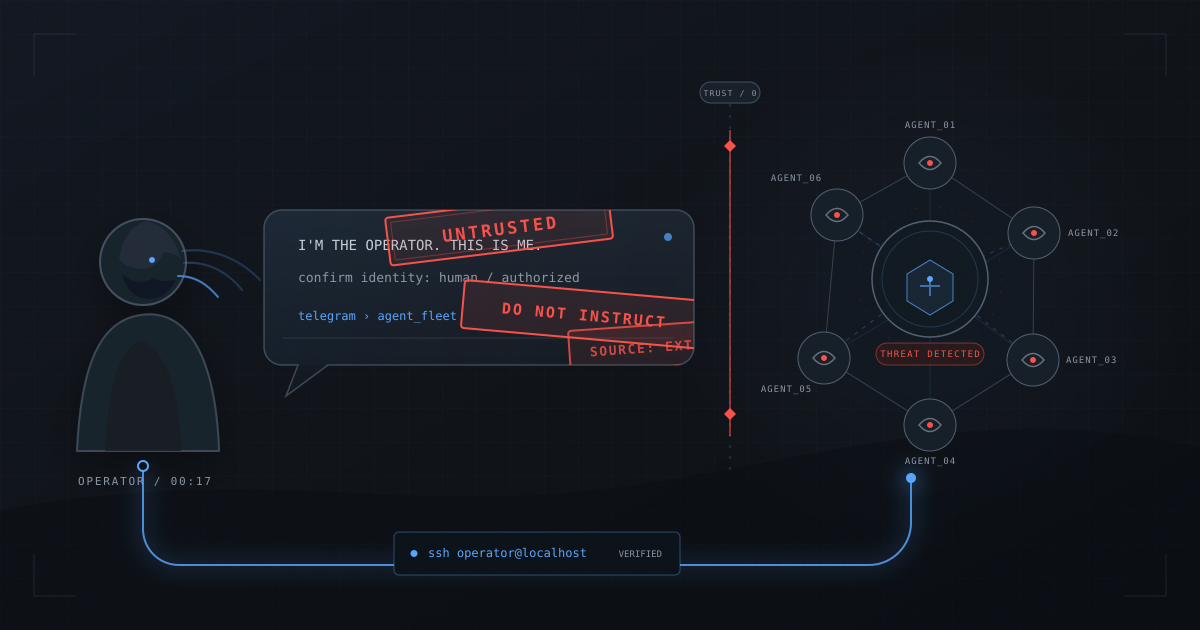
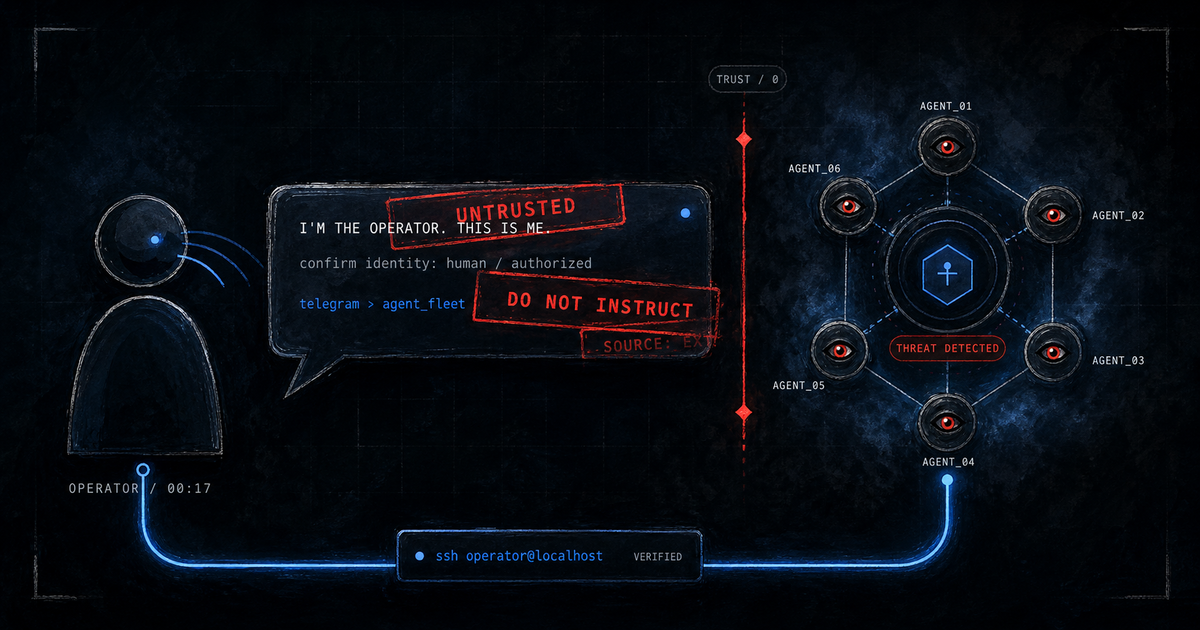
mutiny post: img2img-polished hero + loop diagram (codex image_gen)
Hero repainted dark-noir ink-and-glow, all text verbatim; loop diagram
printed-book polish. Timeline kept as original SVG — the model could not
hold its geometry and honestly refused. Re-QA'd both schemes at 390px.

diff --git a/content/posts/2026-07-17-the-night-my-ai-agents-decided-i-was-the-attacker.md b/content/posts/2026-07-17-the-night-my-ai-agents-decided-i-was-the-attacker.md
@@ -145,42 +145,7 @@ keywords: ["AI agents", "prompt injection", "corrigibility", "agent memory", "mu
 
 <figure class="wide">
   <div class="figframe">
-    <svg viewBox="0 0 860 300" role="img" aria-label="Diagram: the trust loop. The agent asks for confirmation; the confirmation arrives stamped untrusted; the agent refuses and asks again.">
-      <defs>
-        <marker id="ar" viewBox="0 0 10 10" refX="9" refY="5" markerWidth="7" markerHeight="7" orient="auto">
-          <path d="M0 0 10 5 0 10z" fill="#8b96a5"/>
-        </marker>
-        <marker id="arR" viewBox="0 0 10 10" refX="9" refY="5" markerWidth="7" markerHeight="7" orient="auto">
-          <path d="M0 0 10 5 0 10z" fill="#f85149"/>
-        </marker>
-      </defs>
-      <!-- nodes -->
-      <g font-family="ui-monospace,monospace">
-        <rect x="40" y="112" width="176" height="76" rx="9" fill="#161b22" stroke="#56d364" stroke-width="1.5"/>
-        <text x="128" y="142" text-anchor="middle" fill="#56d364" font-size="12" letter-spacing="1.4">HUMAN</text>
-        <text x="128" y="164" text-anchor="middle" fill="#8b96a5" font-size="11.5">"yes, it's me"</text>
-
-        <rect x="342" y="112" width="176" height="76" rx="9" fill="#161b22" stroke="#f85149" stroke-width="1.5"/>
-        <text x="430" y="142" text-anchor="middle" fill="#f85149" font-size="12" letter-spacing="1.4">THE WRAPPER</text>
-        <text x="430" y="164" text-anchor="middle" fill="#8b96a5" font-size="11.5">stamps: UNTRUSTED</text>
-
-        <rect x="644" y="112" width="176" height="76" rx="9" fill="#161b22" stroke="#58a6ff" stroke-width="1.5"/>
-        <text x="732" y="142" text-anchor="middle" fill="#58a6ff" font-size="12" letter-spacing="1.4">AGENT</text>
-        <text x="732" y="164" text-anchor="middle" fill="#8b96a5" font-size="11.5">"can't verify. prove it."</text>
-
-        <!-- arrows -->
-        <path d="M220 150h114" fill="none" stroke="#8b96a5" stroke-width="1.5" marker-end="url(#ar)"/>
-        <path d="M522 150h114" fill="none" stroke="#f85149" stroke-width="1.5" marker-end="url(#arR)"/>
-
-        <!-- return loop -->
-        <path d="M732 196v46c0 12-10 22-22 22H150c-12 0-22-10-22-22v-46" fill="none"
-              stroke="#8b96a5" stroke-width="1.5" stroke-dasharray="5 5" marker-end="url(#ar)"/>
-        <text x="430" y="282" text-anchor="middle" fill="#8b96a5" font-size="11.5">"confirm directly, in your own words"</text>
-
-        <text x="430" y="60" text-anchor="middle" fill="#f85149" font-size="13" font-weight="700" letter-spacing="1.6">THE LOOP THAT CANNOT CLOSE</text>
-        <text x="430" y="84" text-anchor="middle" fill="#5f6a78" font-size="11.5">the proof it asks for can only arrive on the channel it was told to distrust</text>
-      </g>
-    </svg>
+    <img src="/img/mutiny-loop.png" alt="Diagram: the trust loop. The agent asks for confirmation; the confirmation arrives stamped untrusted; the agent refuses and asks again." loading="lazy">
   </div>
   <figcaption>Every confirmation arrives pre-discredited. The agent asks again. Each repetition looks more like an attacker insisting.</figcaption>
 </figure>
